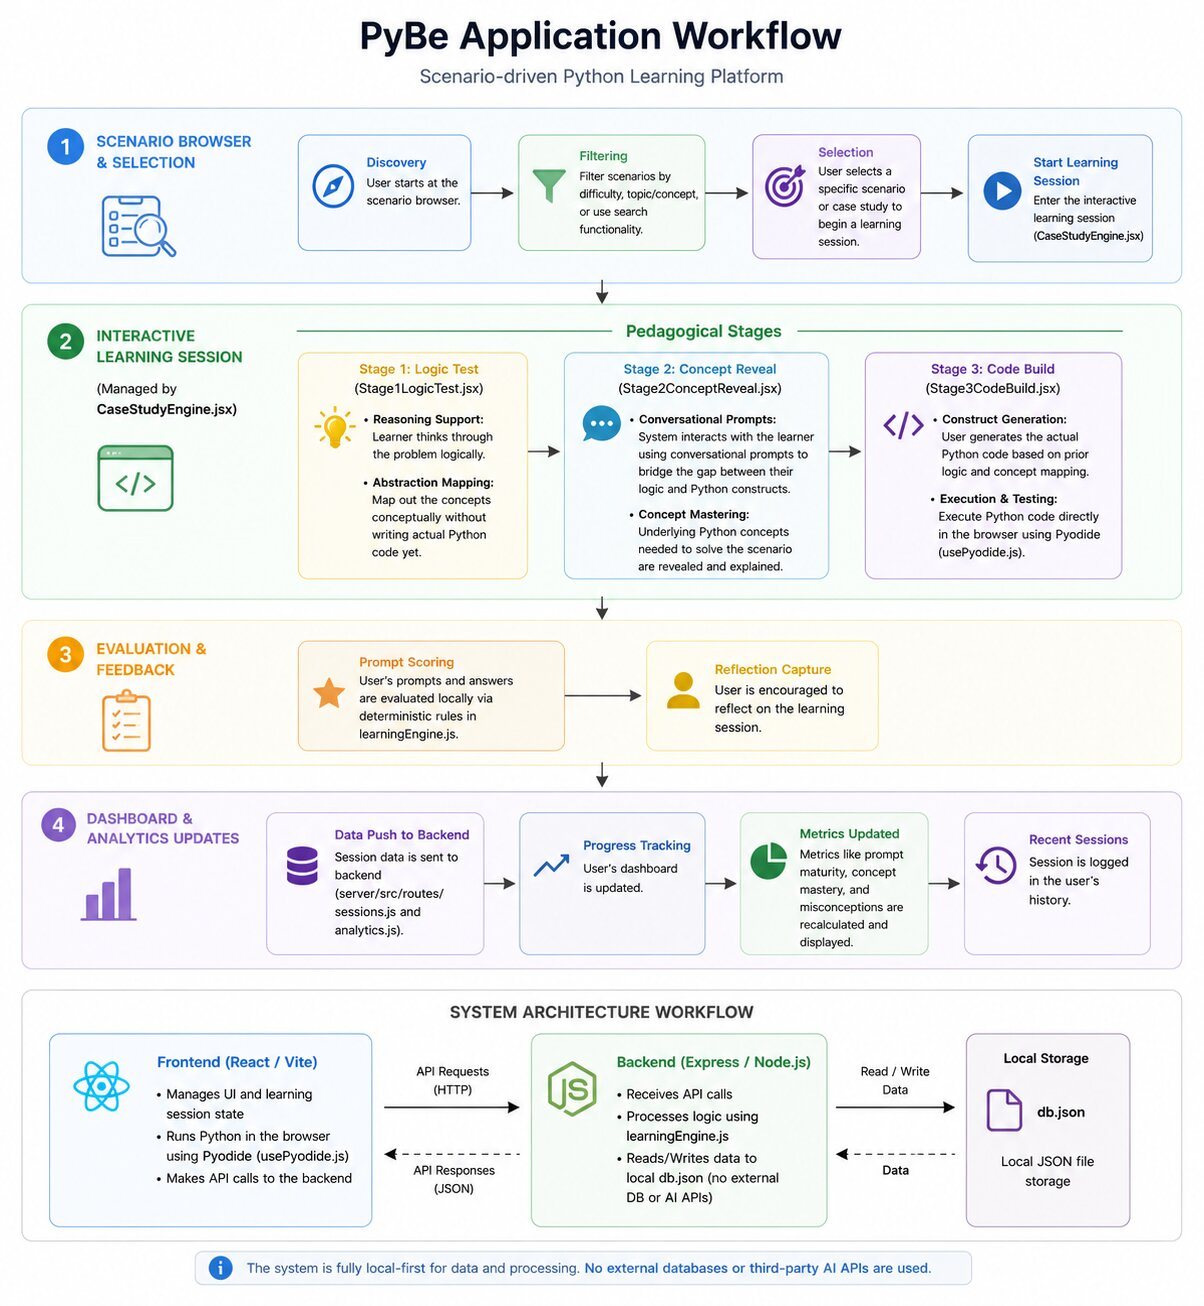
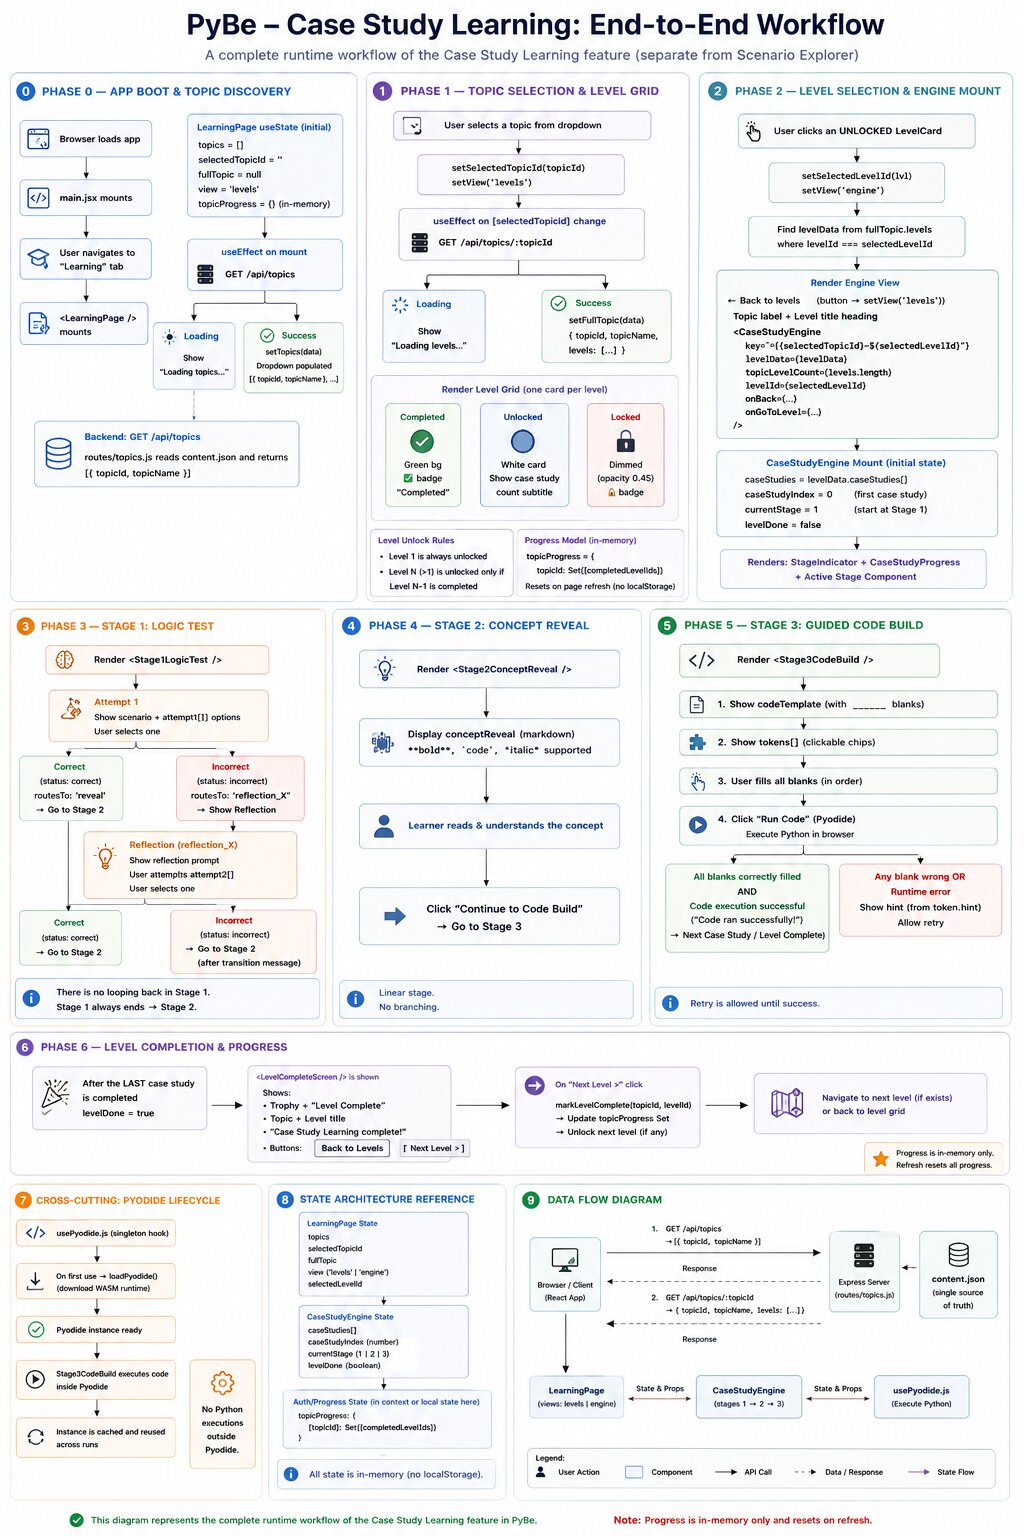
prompt.md update with Data Model (`content.json`) and workflow, updated workflow image

Changed region(s): [[0.0, 0.0, 1.0, 1.0], [0.9688, 0.0919, 1.0, 0.1225]]

diff --git a/product.md b/product.md
@@ -31,9 +31,9 @@ to implementing the solution in Python.
 
 | Name | Email | Contribution |
 | :--- | :--- | :--- |
-| Saksham Sharma | sakshammayoor@gmail.com | Core feature design, bug fixing, case study template, Added Case Study (Loops, Conditions, Data Types) |
-| Vedhanth M | vedhanthmanju@gmail.com | Added Case Study (Functions, String Manuplation, Error Handling) |
-| Aarsh Sohane | suhaniaarsh@gmail.com | Added Case Study (Distionaries,File Handling, Lists)  |
+| Saksham Sharma | sakshammayoor@gmail.com | Core Feature Design, Bug Fixing, Case Study template, Added Case Study (Loops, Conditions, Data Types) |
+| Vedhanth M | vedhanthmanju@gmail.com | Added Case Study (Functions, String Manipulation, Error Handling) |
+| Aarsh Sohane | suhaniaarsh@gmail.com | Added Case Study (Dictionaries, File Handling, Lists) and Helped with documentation |
 
 ---
 ## 📖 Table of Contents
@@ -146,7 +146,7 @@ pybe/
 │       ├── styles.css
 │       └── learning/
 │           ├── CaseStudyEngine.jsx
-│           ├── LearningPage.jsx
+│           ├── LearningPage.jsx               ← Topic selector + Level grid
 │           ├── Stage1LogicTest.jsx
 │           ├── Stage2ConceptReveal.jsx
 │           ├── Stage3CodeBuild.jsx
@@ -157,10 +157,10 @@ pybe/
     ├── package.json
     ├── package-lock.json
     └── src/
-        ├── index.js
+        ├── index.js                  ← Express API: GET /api/topics, /api/topics/:id
         ├── seed.js
         ├── data/
-        │   └── content.json
+        │   └── content.json             ← All topic/level/case study data
         ├── routes/
         │   ├── analytics.js
         │   ├── roadmap.js
@@ -191,6 +191,44 @@ pybe/
 | **`src/data/content.json`** | The core data file containing all topics, levels, and case study JSON structures. |
 
 ---
+### Data Model (`content.json`)
+
+The entire content tree is stored in `content.json`. The structure is:
+
+```
+Array of Topics
+└── Topic
+    ├── topicId          (e.g. "loops")
+    ├── topicName        (e.g. "Loops (For/While)")
+    └── levels[]
+        └── Level
+            ├── levelId          (integer: 1, 2, 3…)
+            ├── title            (e.g. "Level 1: Birthday App")
+            └── caseStudies[]
+                └── CaseStudy
+                    ├── id              (e.g. "l1_c1")
+                    ├── scenario        (the problem description string)
+                    ├── stage1          ← Logic Test data
+                    │   ├── attempt1[]
+                    │   │   ├── text         (option label)
+                    │   │   ├── status       ("correct" | "incorrect")
+                    │   │   └── routesTo     ("reveal" | "reflection_X")
+                    │   └── reflections{}
+                    │       └── reflection_X
+                    │           ├── prompt       (reflection question text)
+                    │           └── attempt2[]
+                    │               ├── text     (option label)
+                    │               └── status   ("correct" | "incorrect")
+                    ├── stage2          ← Concept Reveal data
+                    │   └── conceptReveal  (markdown string with **bold**, `code`, *italic*)
+                    └── stage3          ← Code Build data
+                        ├── codeTemplate   (string with _____ blanks for fills)
+                        ├── correctOrder[] (optional ordered list of correct values)
+                        └── tokens[]
+                            ├── value        (the token label)
+                            ├── correct      (boolean)
+                            └── hint         (shown on wrong selection)
+```
 
 ## 📐 3. How Case Studies Are Designed
 
